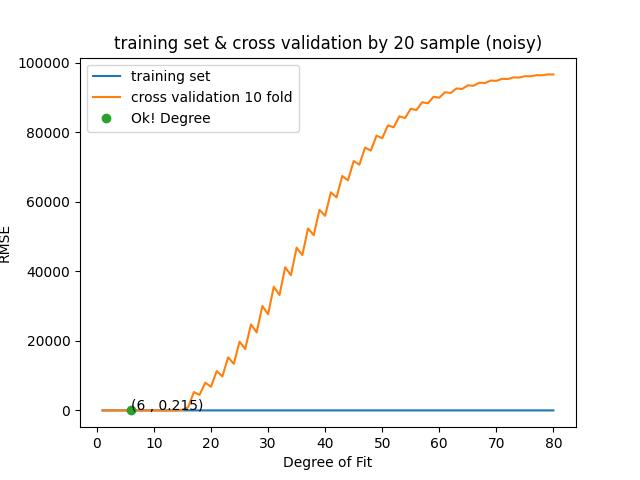
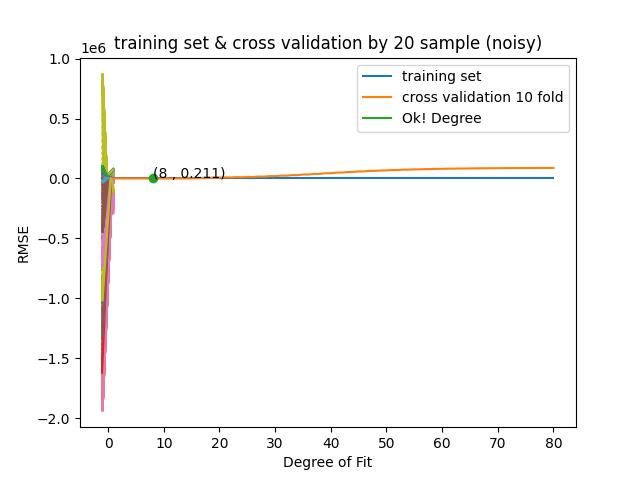
week7?

diff --git a/week3/main_week3.py b/week3/main_week3.py
@@ -48,6 +48,8 @@ def holdout(x,y,seed,test_size):
 def cross_vali(x,y,seed=1,n=10,degree=1):
 	kf = KFold(n_splits=n, random_state=seed, shuffle=True)
 	Mean_kf = 0
+	global arr_xy
+	arr_xy = []
 	
 	for train_index, test_index in kf.split(x):
 		x_train, x_test = x[train_index], x[test_index]
@@ -59,9 +61,16 @@ def cross_vali(x,y,seed=1,n=10,degree=1):
 		y_pred = reg.y(x_test)
 		#plt.plot(x_test, y_pred, "o")
 		
+		_n_test = len(x_test)
+		for o in range(_n_test):
+			arr_xy.append([x_test[o],y_pred[o][0]])
+		
 		mse = reg.mse(y_test, y_pred)
 		
 		Mean_kf += np.sqrt(mse)
+	arr_xy = np.array(arr_xy)
+	arr_xy = arr_xy[arr_xy[:, 0].argsort()]
+	
 	return Mean_kf/n
 
 def f(x):
@@ -212,14 +221,22 @@ def main():
 	plt.show()
 
 def degreeAndError():
-	sample = 20
+	sample = 10
 	tag = "noisy"
 	#name = "sin_"+tag+"_"+str(sample)+"sample.csv"
 	#data = pd.read_csv(name)
 	n = 80+1 #len(data.iloc[:,].to_numpy()[0])
 	
-	x_1 = np.arange( -1,1,0.2/(int(sample/10)) ) #data.iloc[:, 0].to_numpy()#np.arange( -1,1,0.2/(int(sample/10)) )
-	y = f(x_1) #data.iloc[:, 8].to_numpy()#f(x_1)
+	#x_1 = np.arange( -1,1,0.2/(int(sample/10)) ) #data.iloc[:, 0].to_numpy()#np.arange( -1,1,0.2/(int(sample/10)) )
+	#y = f(x_1) #data.iloc[:, 8].to_numpy()#f(x_1)
+
+	start_x = -1
+	diff = 0.2/(sample/10)
+	x_1 = np.array([])
+	for i in range(sample):
+		x_1 = np.append(x_1, [start_x+(i*diff)]) #np.arange( -1,1,0.2/diff ) # data.iloc[:, 0].to_numpy()
+	y =  f(x_1)
+	
 	if(tag == "noisy"):
 			ran_f = np.array([i+random.uniform(0,0.5) for i in f(x_1)])
 			y = ran_f#data.iloc[:, -1].to_numpy() #f(x_1)
@@ -243,6 +260,7 @@ def degreeAndError():
 	for d in X:
 		arr = [cross_vali(x_1, y, degree=d, seed=s) for s in range(1,501)] # number of seed 500, [1,501)
 		_temp = sum(arr)/len(arr) #cross_vali(x_1, y, degree=d)
+		
 		print(d,_temp)
 		Y1 = np.append(Y1, [ training_set(x_1, y, degree=d) ])
 		Y2 = np.append(Y2, [ _temp ])
@@ -250,8 +268,10 @@ def degreeAndError():
 		if(Y_min > _temp):
 			Y_min = _temp
 			X_min = d
-		#plt.title("degree, rmse: "+str(d)+", "+str(_temp))
-		#plt.show()
+		plt.plot(x_1, y,"o")
+		plt.plot(arr_xy[:, 0], arr_xy[:, 1], "-")
+		plt.title("degree, rmse: "+str(d)+", "+str(_temp))
+		plt.show()
 	############ Real graph ###############
 	"""
 	for d in range(X_min, X_min+50, 5):
@@ -333,5 +353,20 @@ def sampleAndError():
 	plt.show()
 
 if __name__ == '__main__':
-	#degreeAndError()
-	sampleAndError()
+	degreeAndError()
+	#sampleAndError()
+	"""
+	sample = 20
+	tag = "noisy"
+	n = 40+1
+	
+	x_1 = np.arange( -1,1,0.2/(int(sample/10)) ) #data.iloc[:, 0].to_numpy()#np.arange( -1,1,0.2/(int(sample/10)) )
+	y = f(x_1) #data.iloc[:, 8].to_numpy()#f(x_1)
+	print(len(y))
+	if(tag == "noisy"):
+			ran_f = np.array([i+random.uniform(0,0.5) for i in f(x_1)])
+			y = ran_f#data.iloc[:, -1].to_numpy() #f(x_1)
+	cross_vali(x_1, y, degree = 5)
+	plt.plot(arr_xy[:, 0], arr_xy[:, 1], "-")
+	plt.show()
+	"""

diff --git a/week2/main_week2.py b/week2/main_week2.py
@@ -57,13 +57,16 @@ def cross_vali(x,y,seed,n):
 	return Mean_kf/n
 
 def main():
-	name = 'HeightWeight100.csv'
+	name = 'HeightWeight20.csv'
 	#name = 'RocketPropellant.csv'
-	x_real = np.linspace(-200,200, 10000)
+	x_real = np.linspace(-1,1, 100000)
 	x,y = data(name)
-	#plt.plot(x, y, "o")
+	plt.xlabel('Height')
+	plt.ylabel('Weight')
+	plt.plot(x, y, "o")
+	plt.show()
 	
-	seed_N = 1000
+	seed_N = 5000
 	
 	arr_h = []
 	arr_c = []
@@ -76,7 +79,7 @@ def main():
 	
 	# 
 	_rmse_t = training_set(x,y)
-	
+	"""
 	# ------------------holdout-------------------
 	arr_test_size = np.arange(0.05, 1, 0.05)
 	print("------------------holdout------------------")
@@ -95,7 +98,7 @@ def main():
 	
 	# ------------------ plot holdout-------------------
 	plt.plot(arr_test_size, arr_aveg_h, "-")
-	plt.plot(arr_test_size, len(arr_aveg_h)*[_rmse_t], "--")
+	#plt.plot(arr_test_size, len(arr_aveg_h)*[_rmse_t], "--")
 	plt.xlabel('Split ratio of Data to Testing')
 	plt.ylabel('RMSE')
 	plt.title('X:Split ratio & Y:RMSE')
@@ -108,7 +111,7 @@ def main():
 	plt.show()
 	
 	# ------------------cross validation-------------------
-	_kf = np.arange(2, 30, 2)
+	_kf = np.arange(2, 12, 2)
 	print("------------------cross validation------------------")
 	for k in _kf:
 		arr_c = []
@@ -125,7 +128,7 @@ def main():
 	
 	# ------------------ plot cross validation-------------------
 	plt.plot(_kf, arr_aveg_c, "-")
-	plt.plot(_kf, len(arr_aveg_c)*[_rmse_t], "--")
+	#plt.plot(_kf, len(arr_aveg_c)*[_rmse_t], "--")
 	plt.xlabel('KFold')
 	plt.ylabel('RMSE')
 	plt.title('X:KFold & Y:RMSE')
@@ -136,7 +139,7 @@ def main():
 	plt.ylabel('STD')
 	plt.title('X:KFold & Y:STD')
 	plt.show()
-	
+	"""
 	# ------------------Matric & Sampling Size-------------------
 	name = 'HeightWeight.csv'
 	x,y = data(name)
@@ -150,10 +153,10 @@ def main():
 	
 	att_n = []
 	
-	for _n in range(10,50,10):
+	for _n in range(10,210,10):
 		sampling_ratio = 1-(_n/len(x))
 		att_n.append(_n)	
-		
+		print(_n)
 		arr_t = []
 		arr_h = []
 		arr_c = []
@@ -201,7 +204,6 @@ def main():
 	plt.show()
 
 if __name__ == '__main__':
-	"""
 	name = 'GenderHeightWeight.csv'
 	#name = 'RocketPropellant.csv'
 	x1,x2,y = data(name)
@@ -262,5 +264,4 @@ if __name__ == '__main__':
 	
 	diff=reg1.y(x2)-reg2.y(x2)
 	print("diff=:",(sum(diff)/len(diff))[0])
-	"""
-	main()
+	#main()

diff --git a/week7/main.py b/week7/main.py
@@ -1,0 +1,56 @@
+import numpy as np
+import matplotlib.pyplot as plt
+
+arr_legend = []
+
+def p(r, mu, ker):
+	return np.exp(-0.5*((r-mu)/ker)**2)/(np.sqrt(2*np.pi*ker))
+
+def f1():
+	ker = 15 #std
+	mu = 30  #mean
+
+	start = -100
+	end = 100
+
+	r = np.linspace(start, end, num=end-start)
+	p_ = p(r, mu, ker)
+
+	max_p = p(r[0], mu, ker)
+	max_r = r[0]
+	for i in r:
+		if(max_p < p(i, mu, ker)):
+			max_p = p(i, mu, ker)
+			max_r = i
+
+	#plt.plot(max_r, max_p, "o")
+	plt.annotate( "("+str(np.round(max_r, 3))+", "+str(np.round(max_p, 3))+")",(max_r,max_p) )
+	plt.plot(r, p_)
+	arr_legend.append("std: "+str(ker)+", "+ "mean: "+str(mu))
+
+def f2():
+	ker = 10 #std
+	mu = 5 #mean
+
+	start = -100
+	end = 100
+
+	r = np.linspace(start, end, num=end-start)
+	p_ = p(r, mu, ker)
+
+	max_p = p(r[0], mu, ker)
+	max_r = r[0]
+	for i in r:
+		if(max_p < p(i, mu, ker)):
+			max_p = p(i, mu, ker)
+			max_r = i
+
+	#plt.plot(max_r, max_p, "o")
+	plt.annotate( "("+str(np.round(max_r, 3))+", "+str(np.round(max_p, 3))+")",(max_r,max_p) )
+	plt.plot(r, p_)
+	arr_legend.append("std: "+str(ker)+", "+ "mean: "+str(mu))
+
+f1()
+f2()
+plt.legend(arr_legend, loc='best')
+plt.show()

diff --git a/week3/main_week4.py b/week3/main_week4.py
@@ -262,6 +262,7 @@ if __name__ == '__main__':
 		plt.plot(slope, rss, label=f"alpha={al}")
 		index = np.where(rss == min(rss))
 		plt.scatter(slope[index[0]], rss[index[0]])
+		print(slope[index[0]], rss[index[0]])
 		
 		x_line = np.append(x_line, [slope[index[0]]])
 		y_line = np.append(y_line, [rss[index[0]]])
